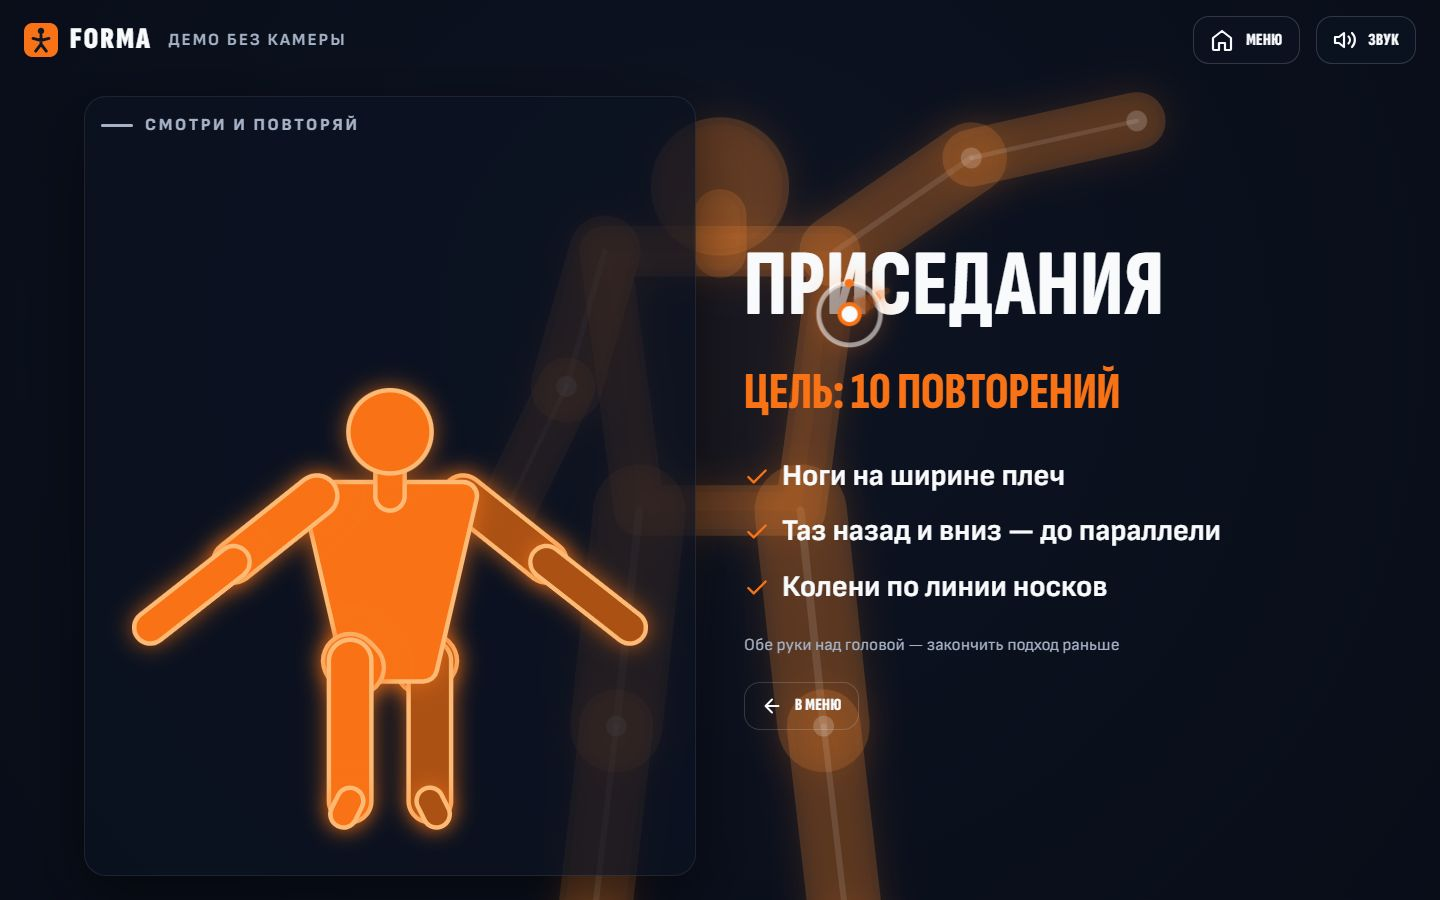
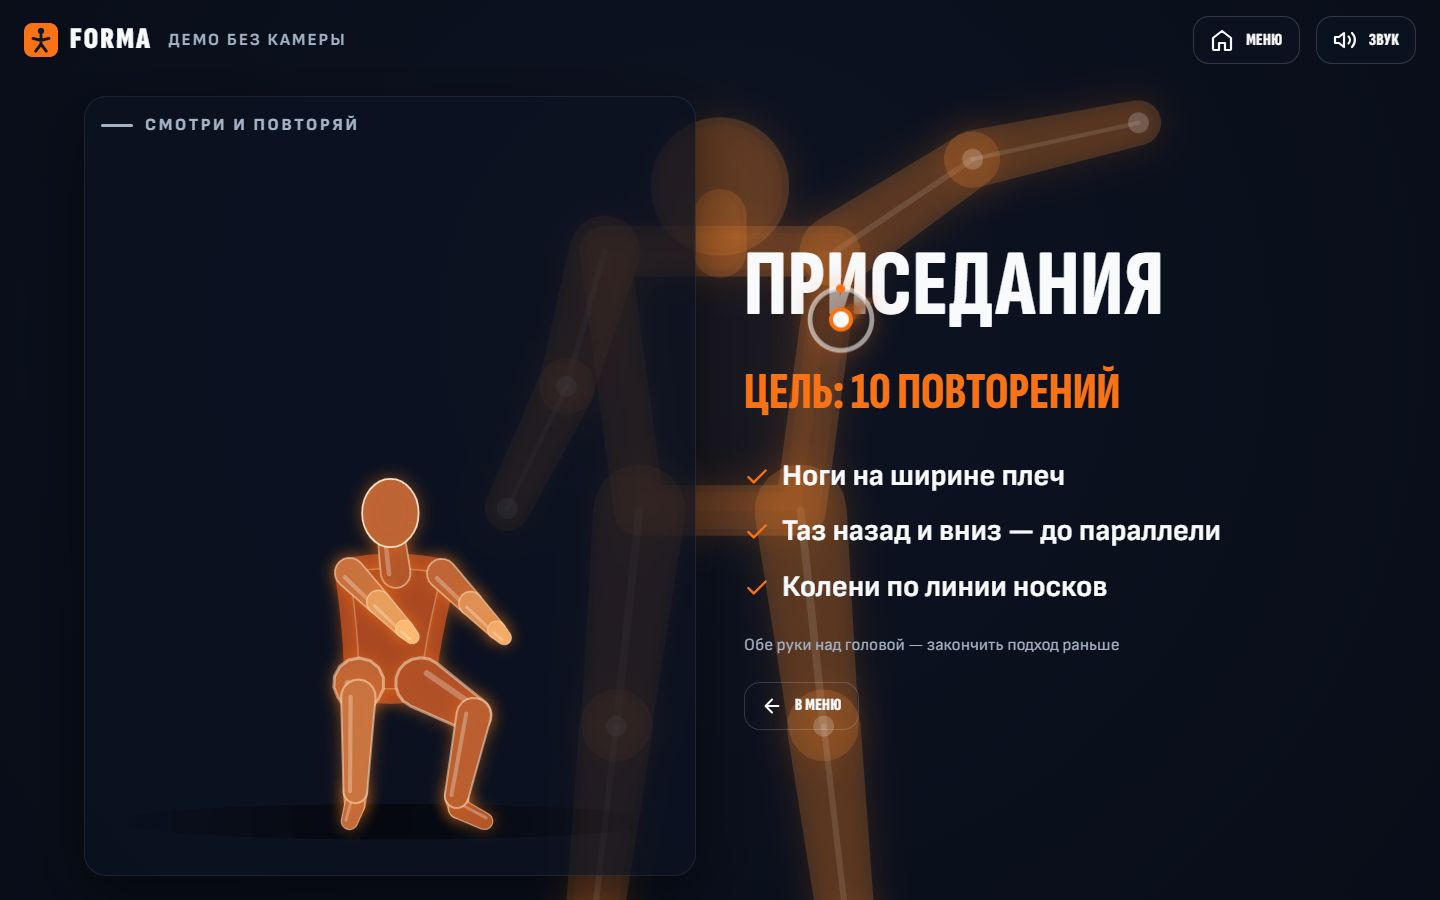
U-17: README — real-motion athlete; refreshed screenshots

diff --git a/README.md b/README.md
@@ -28,15 +28,16 @@ npm test           # 290+ тестов, в том числе на записан
 
 Камера работает только на `localhost` или по HTTPS. Без камеры, на мок-движке: `http://localhost:5173/?mock=1`.
 
-| Команда                                         | Что делает                                       |
-| ----------------------------------------------- | ------------------------------------------------ |
-| `npm run dev`                                   | dev-сервер                                       |
-| `npm run build`                                 | проверка типов и продакшен-сборка в `dist/`      |
-| `npm test`                                      | юнит-, сквозные и тесты на записях (vitest)      |
-| `npm run lint` / `npm run format`               | ESLint / Prettier                                |
-| `node scripts/e2e-video.mjs <видео> squat`      | движок в настоящем Chrome на видео вместо камеры |
-| `node scripts/extract-fixtures.mjs <jobs.json>` | видео → записанные позы для тестов               |
-| `node scripts/ui-screens.mjs [--mobile]`        | весь сценарий UI в Chrome + скриншоты экранов    |
+| Команда                                         | Что делает                                          |
+| ----------------------------------------------- | --------------------------------------------------- |
+| `npm run dev`                                   | dev-сервер                                          |
+| `npm run build`                                 | проверка типов и продакшен-сборка в `dist/`         |
+| `npm test`                                      | юнит-, сквозные и тесты на записях (vitest)         |
+| `npm run lint` / `npm run format`               | ESLint / Prettier                                   |
+| `node scripts/e2e-video.mjs <видео> squat`      | движок в настоящем Chrome на видео вместо камеры    |
+| `node scripts/extract-fixtures.mjs <jobs.json>` | видео → записанные позы для тестов                  |
+| `node scripts/ui-screens.mjs [--mobile]`        | весь сценарий UI в Chrome + скриншоты экранов       |
+| `node scripts/build-ghost.mjs`                  | эталонное движение атлета из записей реальных людей |
 
 ## Интерфейс: всё управляется телом
 
@@ -64,6 +65,12 @@ npm test           # 290+ тестов, в том числе на записан
 
 Чистое повторение даёт зелёную вспышку скелета, звук и «Отлично!». В итогах видны оценка каждого повтора и топ-3 ошибки
 с тем же советом.
+
+**Эталон движения — настоящий человек.** Атлет на лендинге и в интро упражнения проигрывает повтор, записанный с реальных
+видео (3D-точки MediaPipe в метрах из `tests/fixtures`): скрипт `scripts/build-ghost.mjs` находит самый глубокий повтор,
+сглаживает, сжимает «зависание» внизу и зацикливает. Выпад и подъём рук построены на настоящей стойке человека
+(ноги выпада — обратная кинематика: переднее колено 90°, заднее у пола; руки подъёма — прямые, через стороны).
+Рендер 3D: поворот вокруг вертикали, части тела рисуются по глубине, конечности — сужающиеся капсулы, тень на полу.
 
 **Бонусы:** рекорды (топ-10) и общий прогресс в localStorage, ник выбирается жестом из сгенерированных. Звуки синтезируются
 WebAudio, без файлов. Есть конфетти на рекорд и вибрация на телефоне. Вертикальная раскладка для телефона, фронтальная камера,
